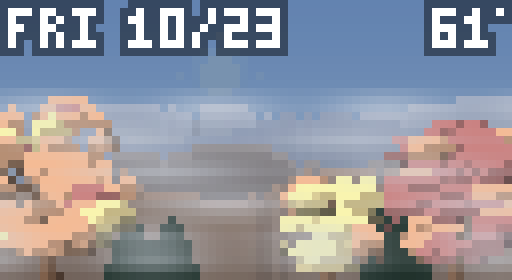
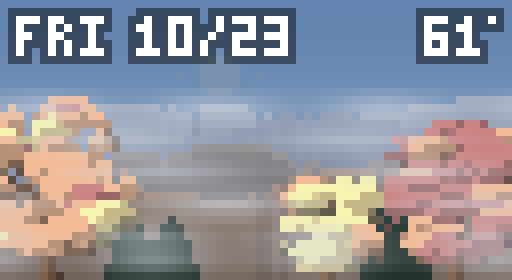
Remove leftovers of the Python design
- regenerate the scene previews (stale: made before the date overlay) with a new
  matrix-preview --scenes; remove terrain-seasons.png (no generator)
- remove two unused test fixtures and the Python-era hardware test log (now gitignored)

Changed region(s): [[0.0, 0.0, 0.5938, 0.2286], [0.8125, 0.0, 1.0, 0.2286]]

diff --git a/src/bin/preview.rs b/src/bin/preview.rs
@@ -3,7 +3,8 @@
 //!   matrix-preview --sample rain_then_snow --out rain.png
 //!   matrix-preview --sample thunder --gif --frames 45 --fps 15 --out storm.gif
 //!
-//! `--all` writes every sample (and extra UI variants) to docs/previews/ui-<name>.png.
+//! `--all` writes every sample (and extra UI variants) to docs/previews/ui-<name>.png;
+//! `--scenes` writes just the weather scene of every sample: scene-<name>.png and a 2 s scene-<name>.gif.
 
 use std::path::PathBuf;
 
@@ -13,7 +14,9 @@ use clap::Parser;
 use matrix_display::compositor::build_default_compositor;
 use matrix_display::display::emulator::{save_gif, EmulatorDisplay};
 use matrix_display::display::Display;
+use matrix_display::gfx::Img;
 use matrix_display::samples::{sample_names, sample_state};
+use matrix_display::scene::render_state;
 use matrix_display::ui::variants::variants;
 
 #[derive(Parser)]
@@ -39,6 +42,9 @@ struct Args {
     /// write every sample and UI variant to <out-dir>/ui-<name>.png
     #[arg(long)]
     all: bool,
+    /// write the weather scene of every sample (PNG and a 2 s GIF) to <out-dir>/scene-<name>.png|gif
+    #[arg(long)]
+    scenes: bool,
     #[arg(long, default_value = "docs/previews")]
     out_dir: PathBuf,
 }
@@ -48,6 +54,29 @@ fn main() -> Result<()> {
     let led_look = a.scale >= 4;
     let mut comp = build_default_compositor(true, a.debug_layout);
     let mut disp = EmulatorDisplay::new(64, 64);
+
+    if a.scenes {
+        std::fs::create_dir_all(&a.out_dir)?;
+        // The scene alone (64x35), every pixel readable: no LED look. Animation starts at t = 3 s.
+        let big = |im: &Img| {
+            let mut out = Img::black(im.w * a.scale, im.h * a.scale);
+            for y in 0..out.h {
+                for x in 0..out.w {
+                    out.data[y * out.w + x] = im.get(x / a.scale, y / a.scale);
+                }
+            }
+            out
+        };
+        for name in sample_names() {
+            let state = sample_state(name);
+            let png = a.out_dir.join(format!("scene-{name}.png"));
+            matrix_display::display::emulator::to_rgb_image(&big(&render_state(&state, 3.0))).save(&png)?;
+            let frames: Vec<Img> = (0..30).map(|i| big(&render_state(&state, 3.0 + i as f64 / 15.0))).collect();
+            save_gif(a.out_dir.join(format!("scene-{name}.gif")), &frames, 1000 / 15)?;
+            println!("wrote {}", png.display());
+        }
+        return Ok(());
+    }
 
     if a.all {
         std::fs::create_dir_all(&a.out_dir)?;

diff --git a/tests/cli.rs b/tests/cli.rs
@@ -112,8 +112,8 @@ fn set_config_tool_edits_a_file() {
 
 #[test]
 fn fixtures_parse() {
-    for name in ["open_meteo_sample.json", "ha_template_response.json", "weather_open_meteo_recorded.json",
-                 "ha_template_mixed.json", "ha_template_quiet.json"] {
+    for name in ["weather_open_meteo_recorded.json", "ha_template_mixed.json", "ha_template_quiet.json",
+                 "geocode_nominatim_10001_us.json", "geocode_openmeteo_10001.json", "geocode_openmeteo_10001_us.json"] {
         let text = std::fs::read_to_string(root().join("tests/fixtures").join(name)).unwrap();
         serde_json::from_str::<serde_json::Value>(&text).unwrap_or_else(|e| panic!("{name}: {e}"));
     }

diff --git a/README.md b/README.md
@@ -100,7 +100,7 @@ cargo run -- --emulate --once --out frame.png                                   
 ```
 
 Samples: `clear_day clear_night partly_cloudy overcast fog rain_then_snow snow thunder`.
-`cargo run --bin matrix-preview -- --all` writes every sample and UI variant to `docs/previews/`.
+`cargo run --bin matrix-preview -- --all` writes every sample and UI variant to `docs/previews/`, and `-- --scenes` the weather scene alone (PNG and a 2 s GIF) for each sample.
 Copy `config/config.example.toml` to `config/config.toml` and `config/secrets.env.example` to `secrets.env` (both
 gitignored) to run against live data, and enable the commit guard with `git config core.hooksPath .githooks`.
 
